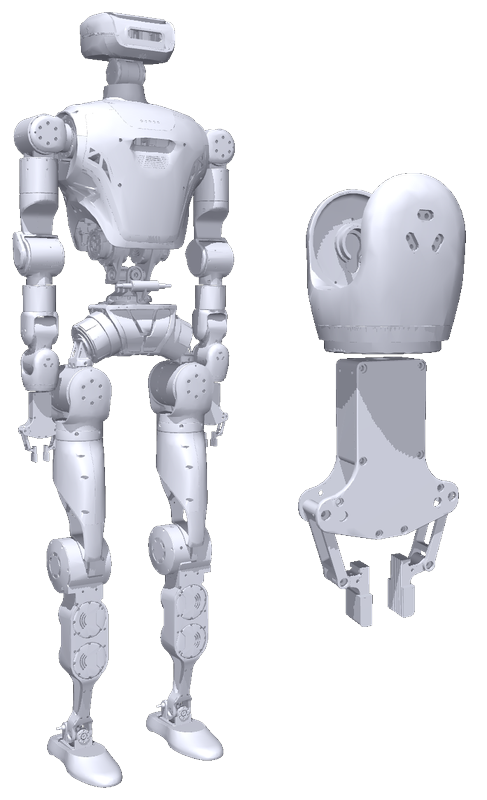
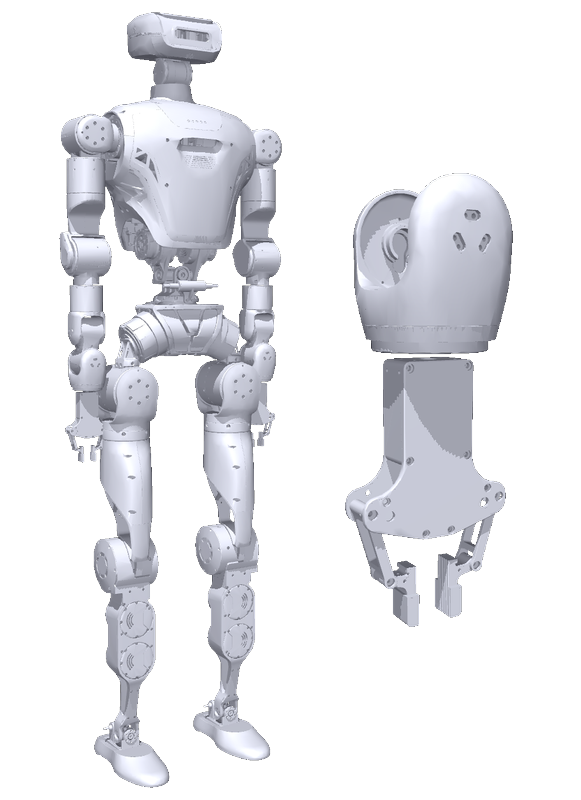
docs: use a uniform canvas for robot model images so rows scale equally
Claude-Session: https://claude.ai/code/session_014hYaVKKGSfrAmV6upv5gfG

Changed region(s): [[0.0308, 0.0, 0.4928, 1.0], [0.5852, 0.2188, 0.9548, 0.7812]]

diff --git a/README.md b/README.md
@@ -24,10 +24,10 @@ Drop the LimX HU_D04 into ROS, MuJoCo or NVIDIA Isaac Sim in minutes, with real 
 
 | | Type | Model | Joints | Formats |
 |:-:|---|---|:-:|---|
-| <img src="docs/images/hu_d04.png" height="200"> | **HU_D04** full-size humanoid | `HU_D04_01` | 31 | URDF · MJCF · USD |
-| <img src="docs/images/hu_d04_gripper.png" height="200"> | **HU_D04 + Gripper** | `HU_D04_01_with_gripper` | 39<br><sub>35 independent</sub> | URDF · USD |
-| <img src="docs/images/hu_d04_hand.png" height="200"> | **HU_D04 + Dexterous Hand** | `HU_D04_01_with_hand` | 53<br><sub>43 independent</sub> | URDF · USD |
-| <img src="docs/images/hu_d03.png" height="200"> | HU_D03 *(discontinued)* | `HU_D03_03` | 31 | URDF · MJCF · USD |
+| <img src="docs/images/hu_d04.png" width="230"> | **HU_D04** full-size humanoid | `HU_D04_01` | 31 | URDF · MJCF · USD |
+| <img src="docs/images/hu_d04_gripper.png" width="230"> | **HU_D04 + Gripper** | `HU_D04_01_with_gripper` | 39<br><sub>35 independent</sub> | URDF · USD |
+| <img src="docs/images/hu_d04_hand.png" width="230"> | **HU_D04 + Dexterous Hand** | `HU_D04_01_with_hand` | 53<br><sub>43 independent</sub> | URDF · USD |
+| <img src="docs/images/hu_d03.png" width="230"> | HU_D03 *(discontinued)* | `HU_D03_03` | 31 | URDF · MJCF · USD |
 
 > **Note:** MuJoCo MJCF is currently provided for the base HU_D04 only. HU_D03 is no longer maintained — please use HU_D04 for new projects.
 

diff --git a/README_cn.md b/README_cn.md
@@ -24,10 +24,10 @@
 
 | | 类型 | 型号 | 关节数 | 格式 |
 |:-:|---|---|:-:|---|
-| <img src="docs/images/hu_d04.png" height="200"> | **HU_D04** 全尺寸人形 | `HU_D04_01` | 31 | URDF · MJCF · USD |
-| <img src="docs/images/hu_d04_gripper.png" height="200"> | **HU_D04 + 夹爪** | `HU_D04_01_with_gripper` | 39<br><sub>35 个独立</sub> | URDF · USD |
-| <img src="docs/images/hu_d04_hand.png" height="200"> | **HU_D04 + 灵巧手** | `HU_D04_01_with_hand` | 53<br><sub>43 个独立</sub> | URDF · USD |
-| <img src="docs/images/hu_d03.png" height="200"> | HU_D03 *（已停止维护）* | `HU_D03_03` | 31 | URDF · MJCF · USD |
+| <img src="docs/images/hu_d04.png" width="230"> | **HU_D04** 全尺寸人形 | `HU_D04_01` | 31 | URDF · MJCF · USD |
+| <img src="docs/images/hu_d04_gripper.png" width="230"> | **HU_D04 + 夹爪** | `HU_D04_01_with_gripper` | 39<br><sub>35 个独立</sub> | URDF · USD |
+| <img src="docs/images/hu_d04_hand.png" width="230"> | **HU_D04 + 灵巧手** | `HU_D04_01_with_hand` | 53<br><sub>43 个独立</sub> | URDF · USD |
+| <img src="docs/images/hu_d03.png" width="230"> | HU_D03 *（已停止维护）* | `HU_D03_03` | 31 | URDF · MJCF · USD |
 
 > **注意：** 目前仅基础款 HU_D04 提供 MuJoCo MJCF。HU_D03 已停止维护，新项目请使用 HU_D04。
 
